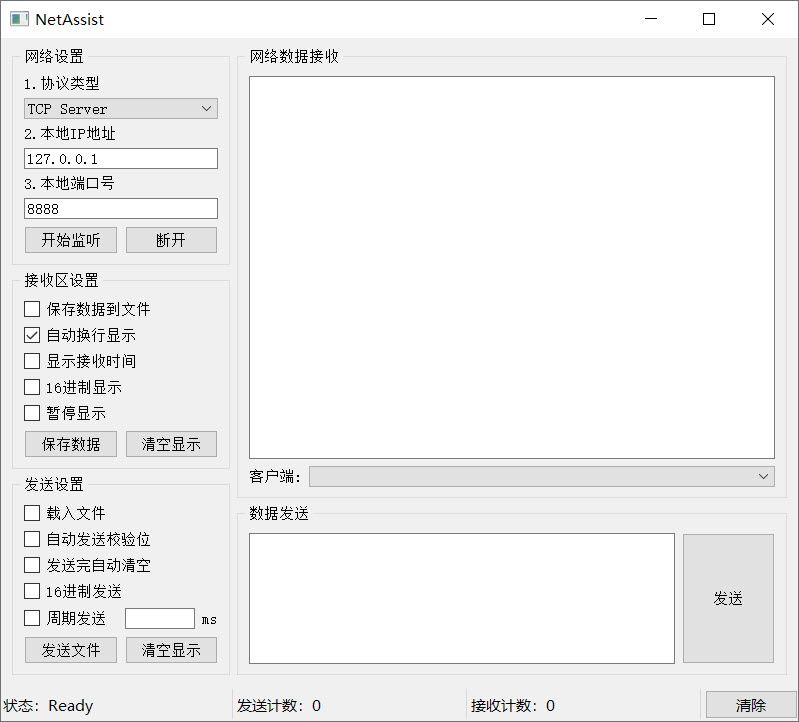
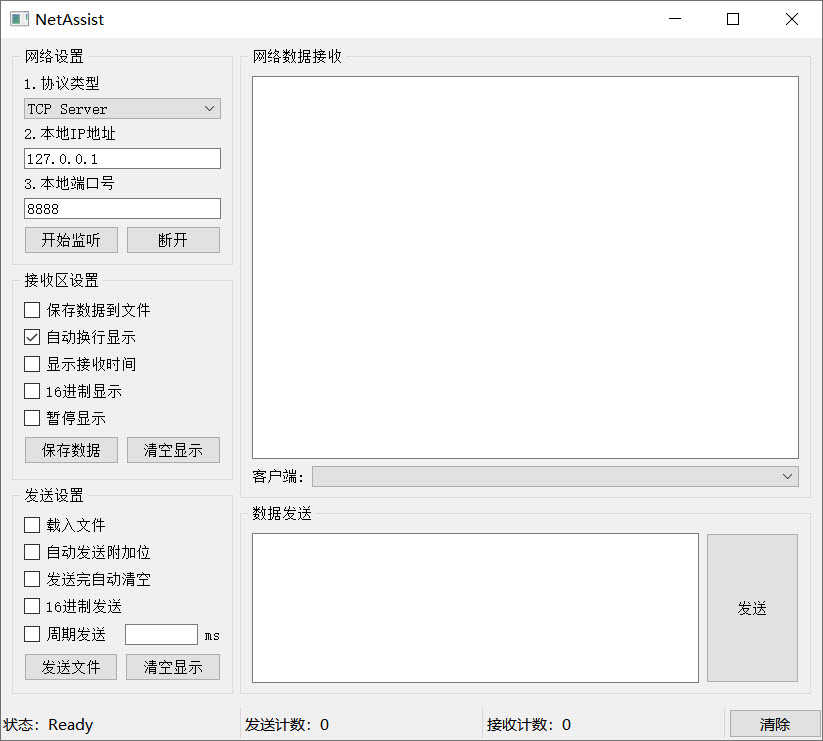
功能性说明更新

diff --git a/README.md b/README.md
@@ -21,11 +21,11 @@
 - 数据循环发送
 - 状态栏添加状态信息
 - 右键菜单中文化
+- 自动发送附加位
 
 ## 现有问题
 - darkstyle的QSS皮肤未添加
-- 自动发送校验位未添加
-
+- 发送完自动清空功能未添加
 
 ## 下一步改进
 - 美化界面
